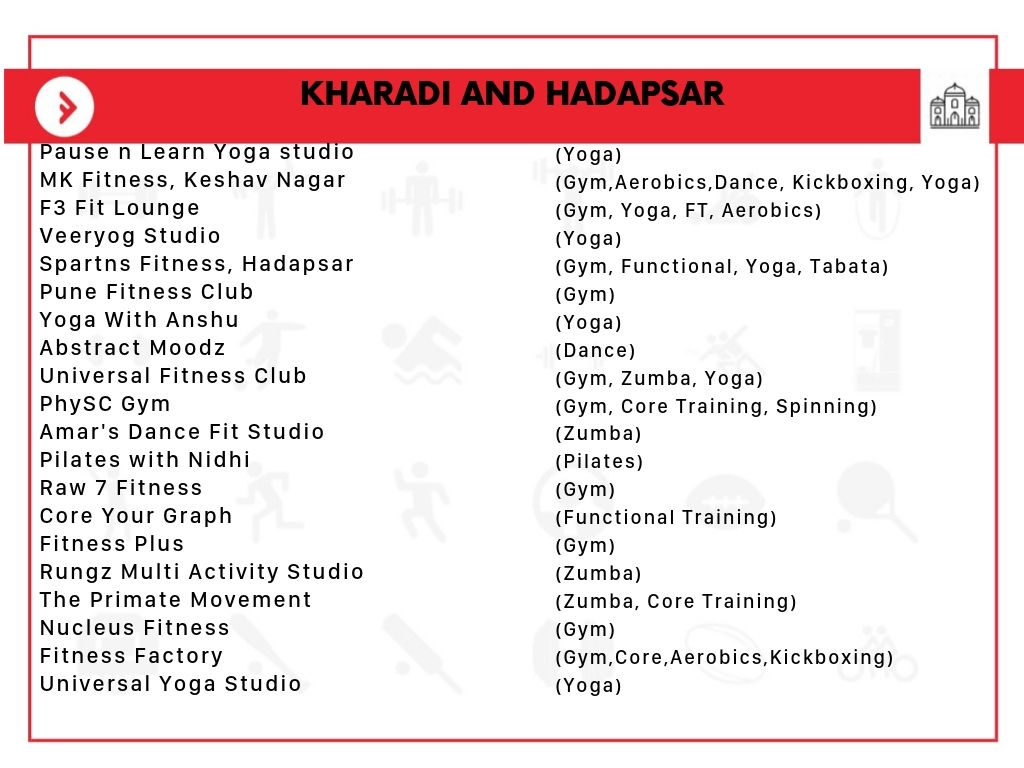
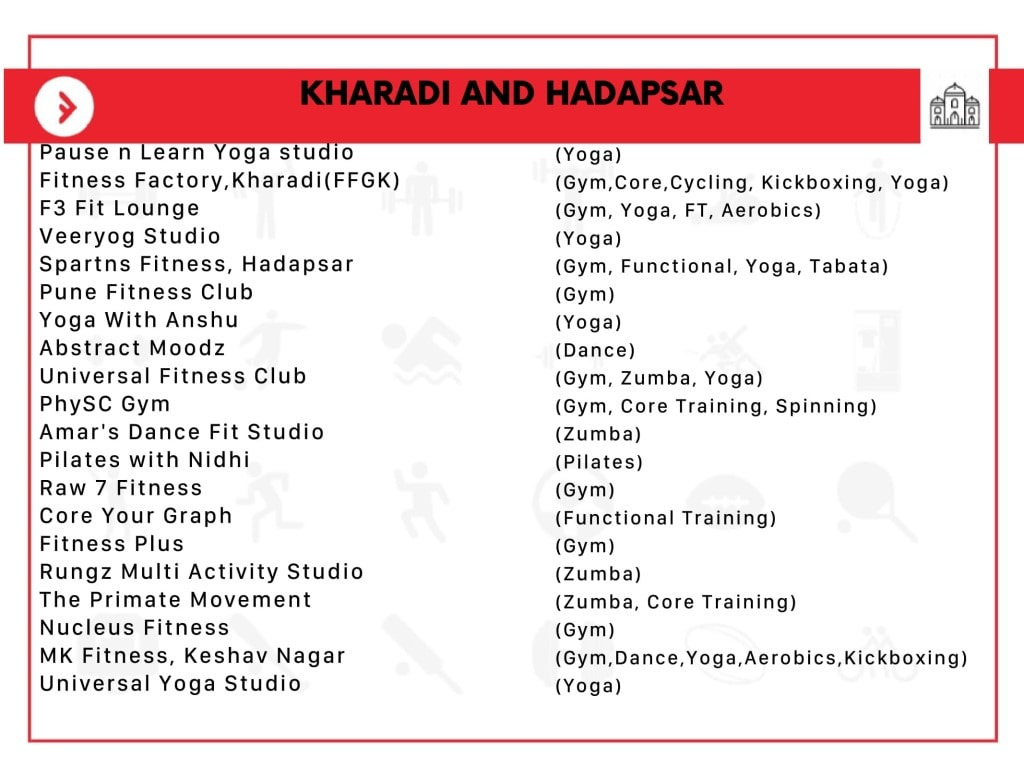
update pune partner; add gtm tracking classes

diff --git a/src/partials/OfferPopup/OfferPopup.jsx b/src/partials/OfferPopup/OfferPopup.jsx
@@ -34,10 +34,11 @@ const OfferPopup = () => {
           showPopup ? { opacity: 1, zIndex: 900 } : { opacity: 0, zIndex: -2 }
         }>
         <PopupContainer>
-          <Link to="/download/">
+          <Link to="/download/" className="ga-click-offer-popup">
             <img
               src={withPrefix('/static/experience-fitness-freedom-offer.jpg')}
               alt="fitato experience fitness freedom offer"
+              className="ga-click-offer-popup"
             />
           </Link>
         </PopupContainer>
